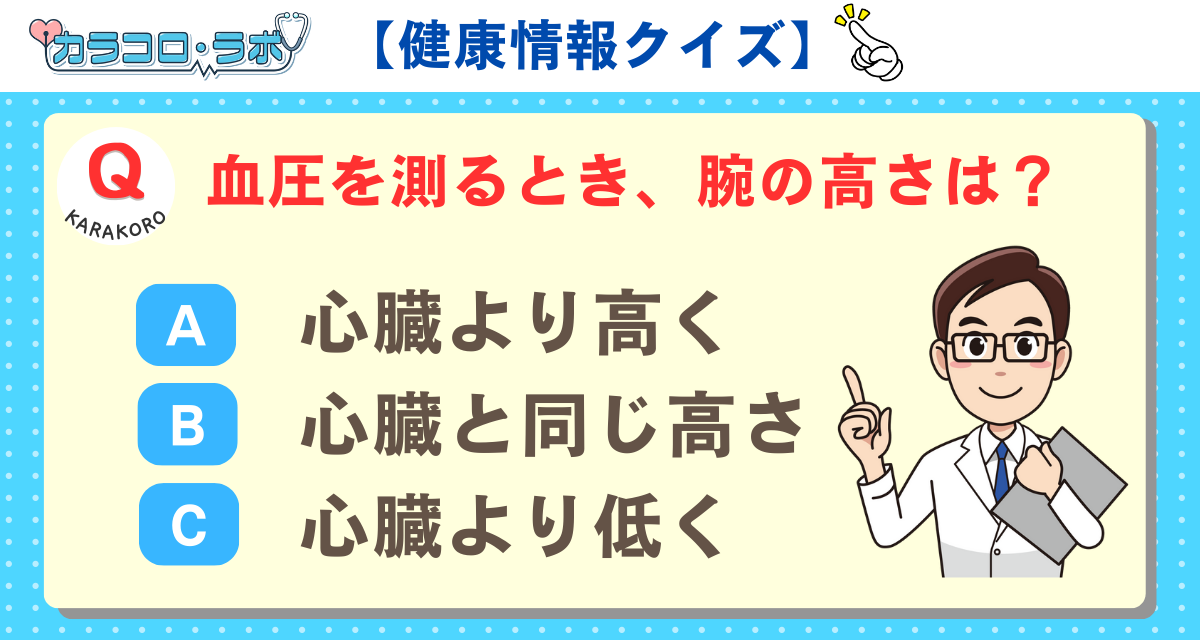
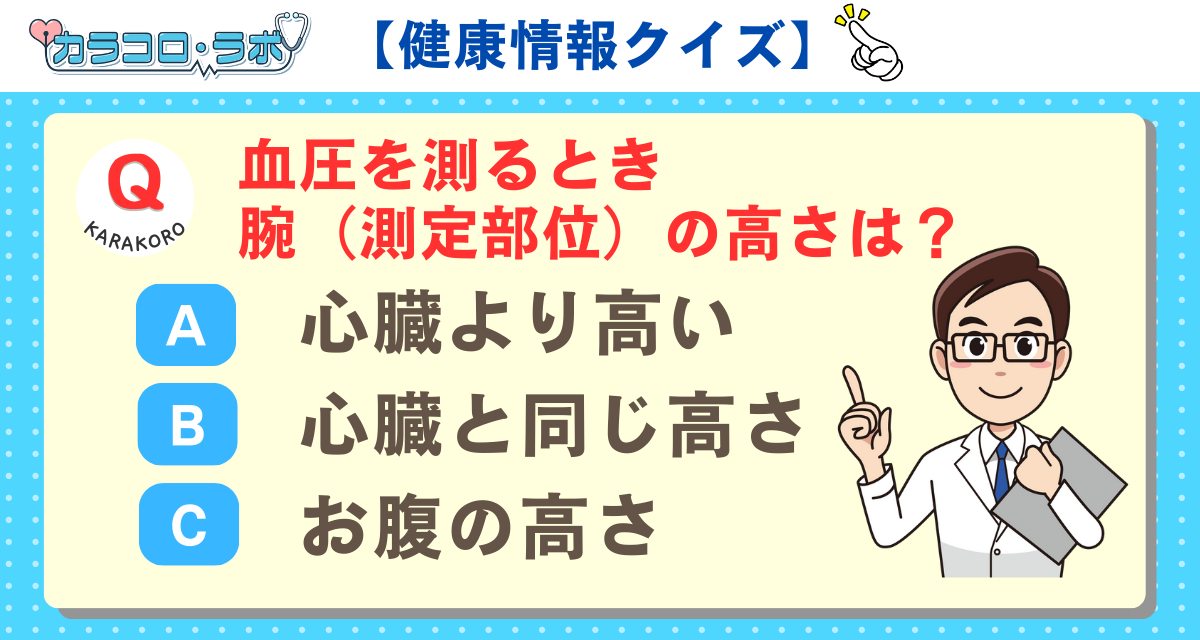
update quiz wording

diff --git a/index.html b/index.html
@@ -124,7 +124,7 @@
         <div class="meta">3択クイズ</div>
 
         <!-- ▼ 問題文 -->
-        <h1 id="q">家庭で血圧を測るとき、腕の高さはどれが正しい？</h1>
+        <h1 id="q">家庭で血圧を測るとき、腕（測定部位）の高さはどれが正しい？</h1>
 
         <!-- ▼ 選択肢（?a=0/1/2 で即判定） -->
         <div class="choices">
@@ -145,7 +145,7 @@
     // ▼ 正解と解説（ここだけ変えれば別問題にも使い回し可）
     const quiz = {
       answer: 1, // A=0, B=1, C=2…
-      explain: "腕は『心臓の高さ』で支えるのが基本。腕が低い/高いと測定値がズレやすくなります。",
+      explain: "腕（測定部位）は心臓と同じ高さで支えるのが家庭血圧測定の基本です。腕が低いと血圧は高めに出やすく、腕が高いと低めに出やすくなります。机などに腕を置いて支え、力を抜いた状態で測定しましょう。 ※上腕式・手首式どちらも「測定部位を心臓の高さ」に合わせることが大切です。",
       video: { title: "名医が解説する「血圧計の測り方」視聴はコチラから！", url: "https://youtu.be/6em-eA7dIHw" }
     };
 
